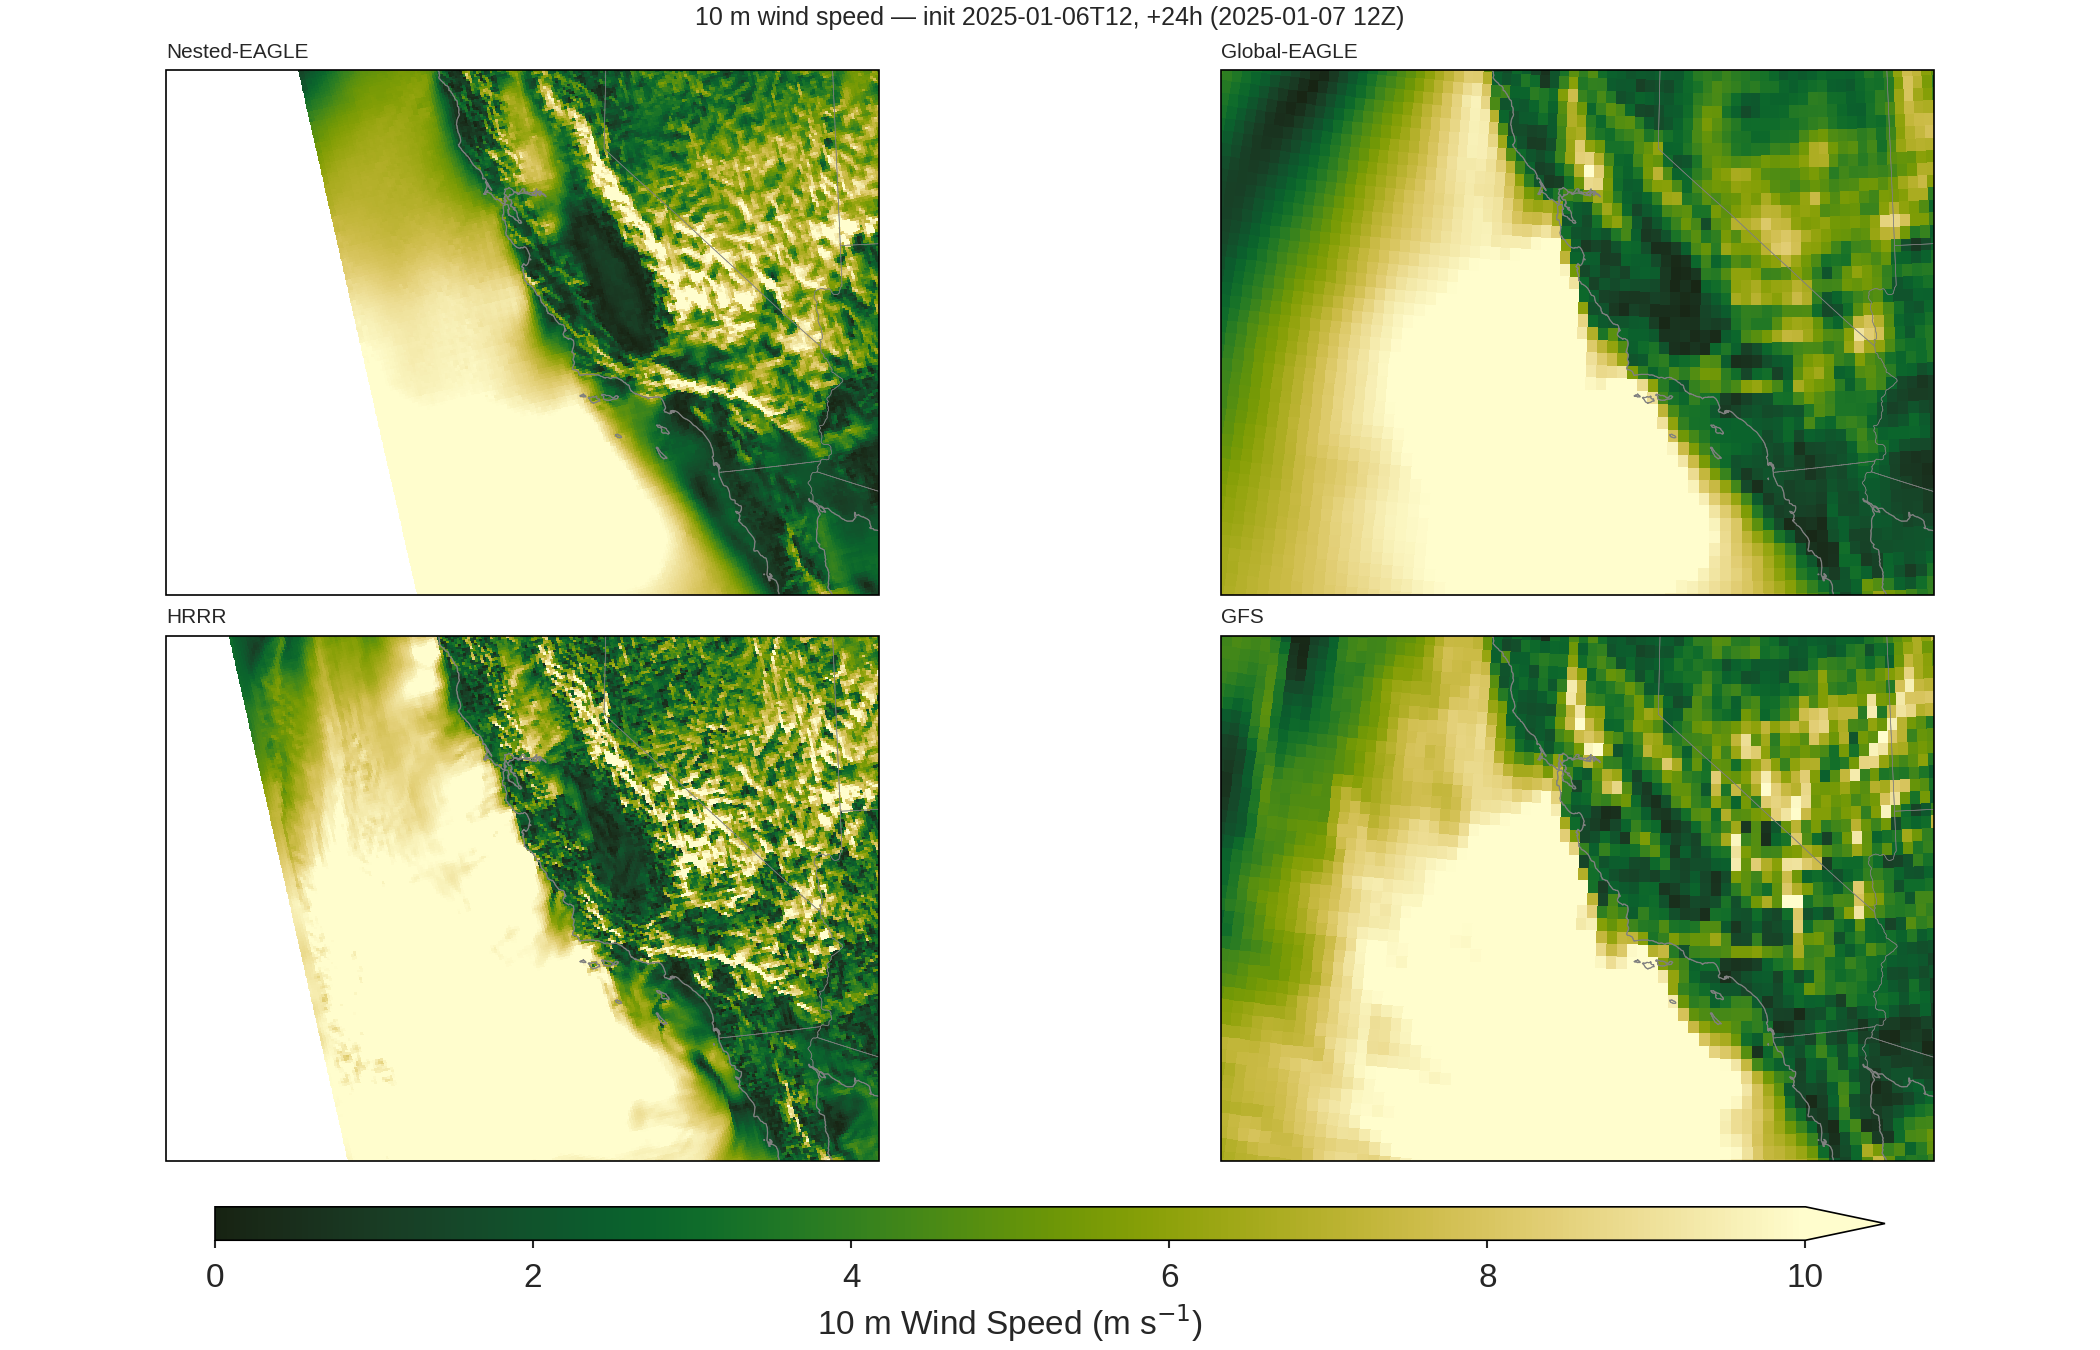
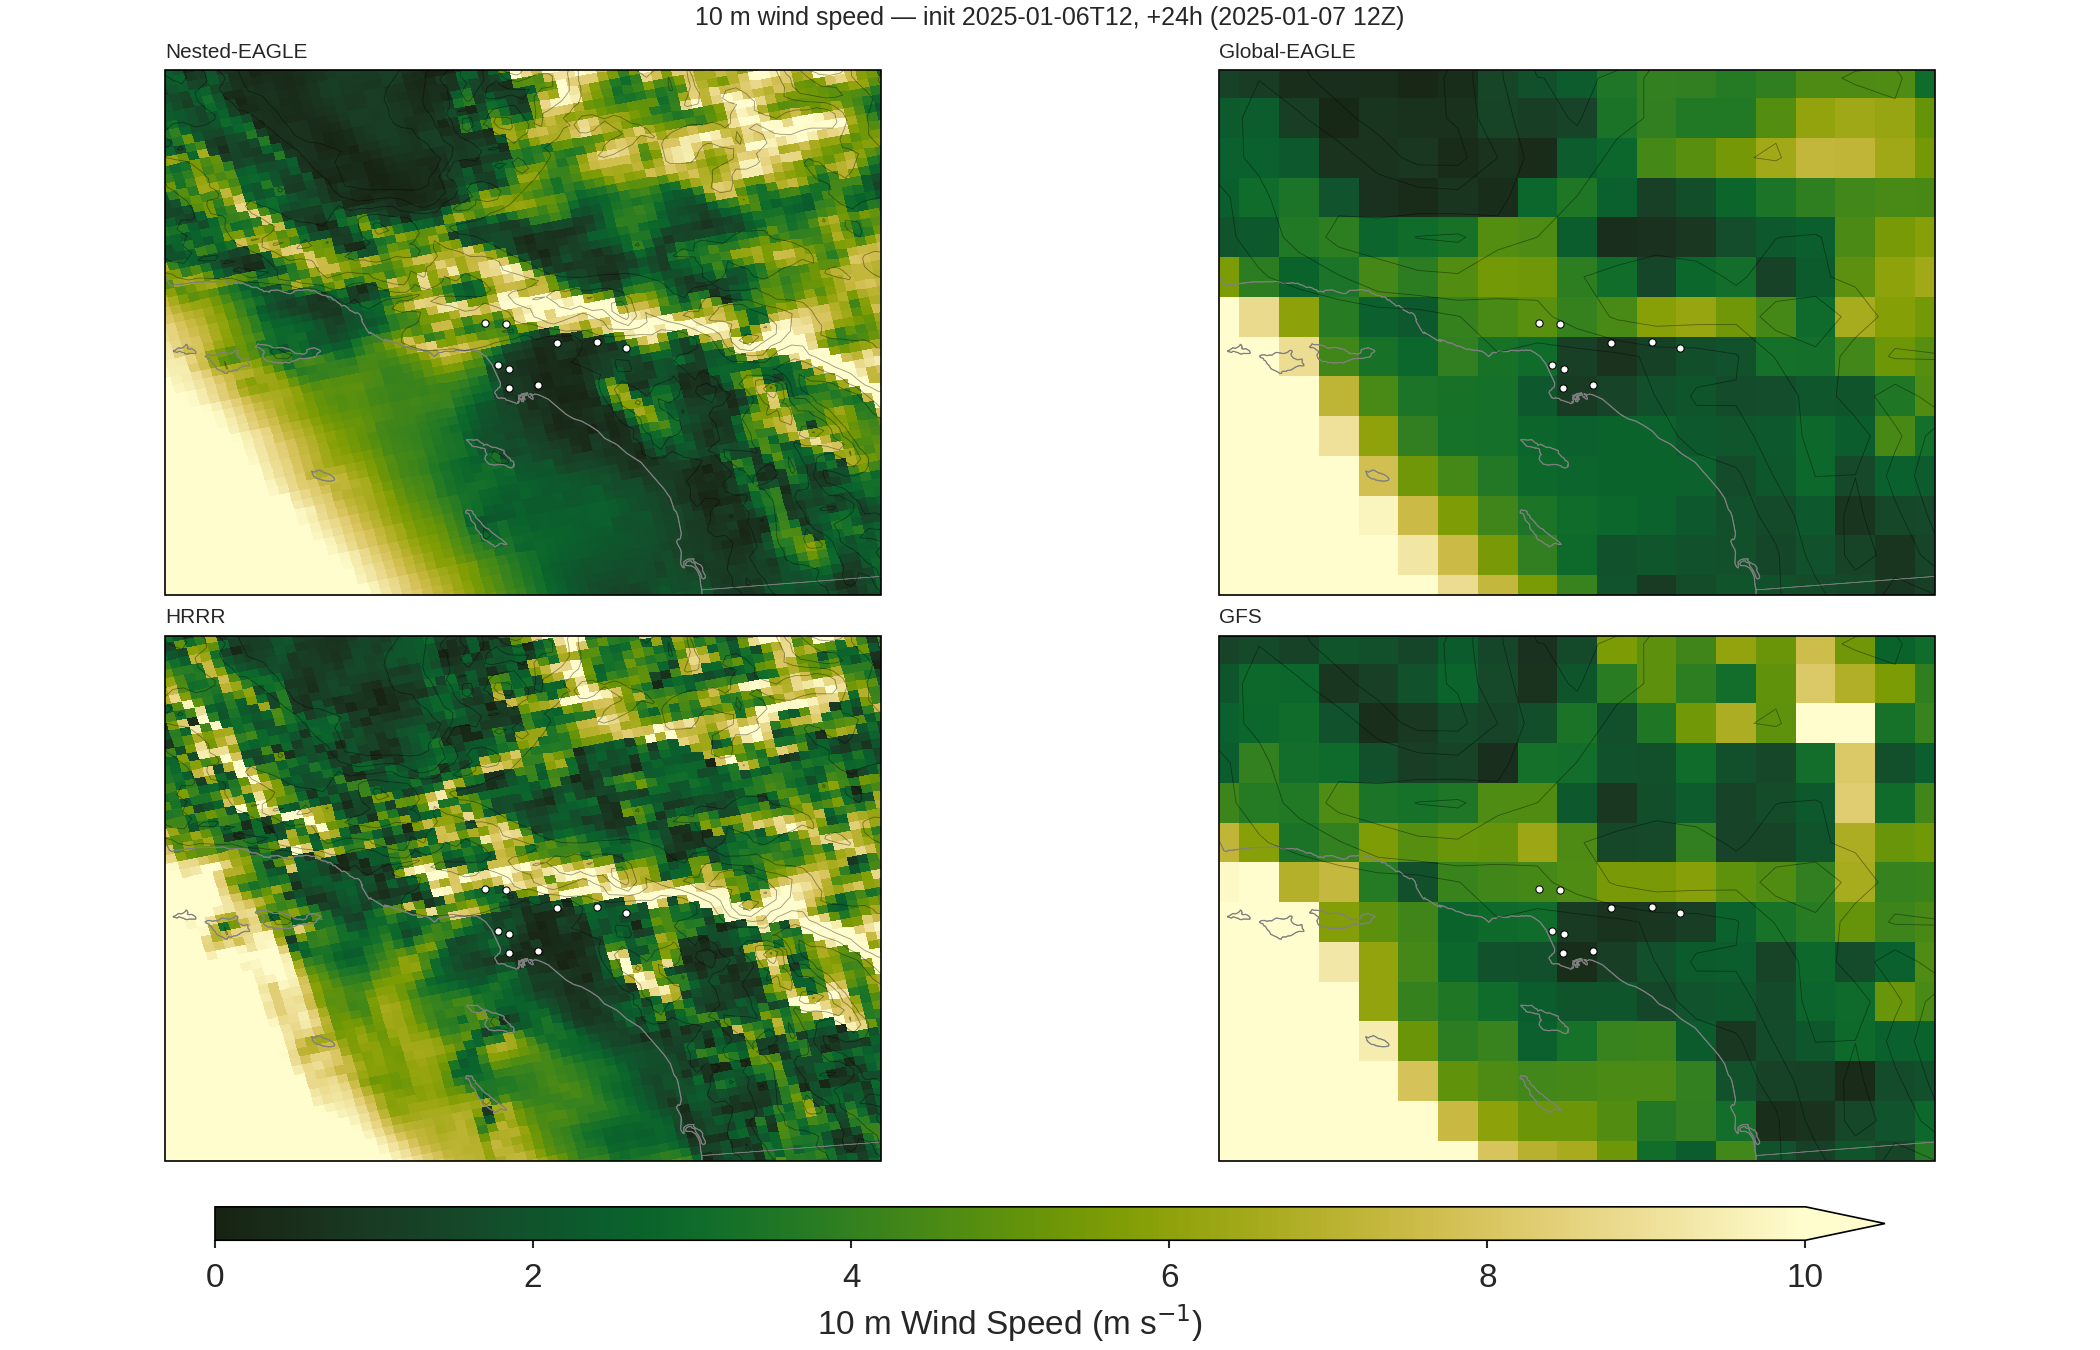
10m wind plots

diff --git a/case-studies/la-fires/plot_map_10m_wind.py b/case-studies/la-fires/plot_map_10m_wind.py
@@ -19,22 +19,25 @@ import pandas as pd
 import xarray as xr
 
 from eagle.tools.data import open_anemoi_inference_dataset, open_forecast_zarr_dataset
+from query_obs import STATIONS
 
 SCRATCH = os.environ["SCRATCH"]
 LA_FIRES = os.path.join(SCRATCH, "nested-eagle/case-studies/la-fires")
 
 # ── Parameters ────────────────────────────────────────────────────────────────
 T0  = "2025-01-06T12"
-FHR = 24
+FHR = 48
 
 VALID_TIME = pd.Timestamp(T0) + pd.Timedelta(hours=FHR)
-SP_LEVELS  = np.arange(972, 1024, 4)   # surface pressure contour levels (hPa)
-WSPD_VMAX  = 10.0                       # m/s, shared colorscale
+SP_LEVELS   = np.arange(972, 1024, 4)          # surface pressure contour levels (hPa)
+WSPD_VMAX   = 10.0                             # m/s, shared colorscale
+OROG_LEVELS = [200, 500, 1000, 1500, 2000, 2500]  # orography contour levels (m)
 
-# SoCal fixed bounds (east/north/south); west is computed from HRRR at load time
-_EAST  = -113.5
-_NORTH =   40
-_SOUTH =   30
+# SoCal fixed bounds
+_WEST  = -120.5
+_EAST  = -116.0
+_NORTH =   35.8
+_SOUTH =   32.5
 
 # ── Data paths ────────────────────────────────────────────────────────────────
 EAGLE_DIR        = os.path.join(LA_FIRES, "nested-eagle")
@@ -101,15 +104,26 @@ def load_gfs() -> xr.Dataset:
     return _select(ds)
 
 
-def _hrrr_west_extent(ds: xr.Dataset) -> float:
-    """Minimum longitude of the HRRR grid within the SoCal latitude band."""
-    lat_name = "latitude" if "latitude" in ds.coords else "lat"
-    lon_name = "longitude" if "longitude" in ds.coords else "lon"
-    lat = ds[lat_name].values
-    lon = ds[lon_name].values
-    lon = np.where(lon > 180, lon - 360, lon)
-    mask = (lat >= _SOUTH) & (lat <= _NORTH)
-    return float(lon[mask].min())
+def load_hrrr_orog() -> xr.Dataset:
+    ds = open_forecast_zarr_dataset(
+        path=HRRR_ZARR,
+        t0=T0,
+        vars_of_interest=["orog"],
+        load=True,
+        reshape_cell_to_2d=True,
+    )
+    return ds.squeeze()
+
+
+def load_gfs_orog() -> xr.Dataset:
+    ds = open_forecast_zarr_dataset(
+        path=GFS_ZARR,
+        t0=T0,
+        vars_of_interest=["orog"],
+        load=True,
+        reshape_cell_to_2d=True,
+    )
+    return ds.squeeze()
 
 
 # ── Plotting ──────────────────────────────────────────────────────────────────
@@ -123,7 +137,7 @@ def _latlon(ds: xr.Dataset) -> tuple[np.ndarray, np.ndarray]:
     return lat, lon
 
 
-def plot_panel(ax, ds: xr.Dataset, title: str, map_extent: list):
+def plot_panel(ax, ds: xr.Dataset, title: str, map_extent: list, ds_orog: xr.Dataset):
     lat, lon = _latlon(ds)
     wspd = _wspd(ds).values
     # SP expected in Pa; convert to hPa for contour levels
@@ -149,6 +163,22 @@ def plot_panel(ax, ds: xr.Dataset, title: str, map_extent: list):
     ax.add_feature(cfeature.COASTLINE, lw=0.6, edgecolor="gray")
     ax.add_feature(cfeature.BORDERS, lw=0.4, linestyle=":", edgecolor="gray")
     ax.add_feature(cfeature.STATES, lw=0.3, edgecolor="gray")
+
+    lat_o, lon_o = _latlon(ds_orog)
+    ax.contour(
+        lon_o, lat_o, ds_orog["orog"].values,
+        levels=OROG_LEVELS,
+        colors="black",
+        linewidths=0.4,
+        alpha=0.4,
+        transform=ccrs.PlateCarree(),
+    )
+
+    stn_lats = [m["lat"] for m in STATIONS.values()]
+    stn_lons = [m["lon"] for m in STATIONS.values()]
+    ax.scatter(stn_lons, stn_lats, transform=ccrs.PlateCarree(),
+               s=12, color="white", edgecolors="black", linewidths=0.5, zorder=5)
+
     ax.set_title(title, loc="left", fontsize=10)
 
     return im
@@ -167,13 +197,14 @@ def main():
     ds_hrrr = load_hrrr()
     print("Loading GFS...")
     ds_gfs = load_gfs()
+    print("Loading HRRR orography...")
+    ds_hrrr_orog = load_hrrr_orog()
+    print("Loading GFS orography...")
+    ds_gfs_orog = load_gfs_orog()
 
-    west = _hrrr_west_extent(ds_hrrr)
-    map_extent = [west, _EAST, _SOUTH, _NORTH]
-    print(f"Map extent: {map_extent}")
+    map_extent = [_WEST, _EAST, _SOUTH, _NORTH]
 
-    proj = ccrs.LambertConformal(central_longitude=-118, central_latitude=34,
-                                 standard_parallels=(33, 45))
+    proj = ccrs.PlateCarree()
     fig, axes = plt.subplots(
         2, 2,
         figsize=(14, 9),
@@ -182,14 +213,14 @@ def main():
     )
 
     panels = [
-        (axes[0, 0], ds_nested, "Nested-EAGLE"),
-        (axes[0, 1], ds_global, "Global-EAGLE"),
-        (axes[1, 0], ds_hrrr,   "HRRR"),
-        (axes[1, 1], ds_gfs,    "GFS"),
+        (axes[0, 0], ds_nested, "Nested-EAGLE", ds_hrrr_orog),
+        (axes[0, 1], ds_global, "Global-EAGLE", ds_gfs_orog),
+        (axes[1, 0], ds_hrrr,   "HRRR",         ds_hrrr_orog),
+        (axes[1, 1], ds_gfs,    "GFS",           ds_gfs_orog),
     ]
 
-    for ax, ds, title in panels:
-        im = plot_panel(ax, ds, title, map_extent)
+    for ax, ds, title, ds_orog in panels:
+        im = plot_panel(ax, ds, title, map_extent, ds_orog)
 
     cbar = fig.colorbar(im, ax=axes, orientation="horizontal", fraction=0.05,
                         pad=0.04, aspect=50, extend="max", shrink=0.8)
